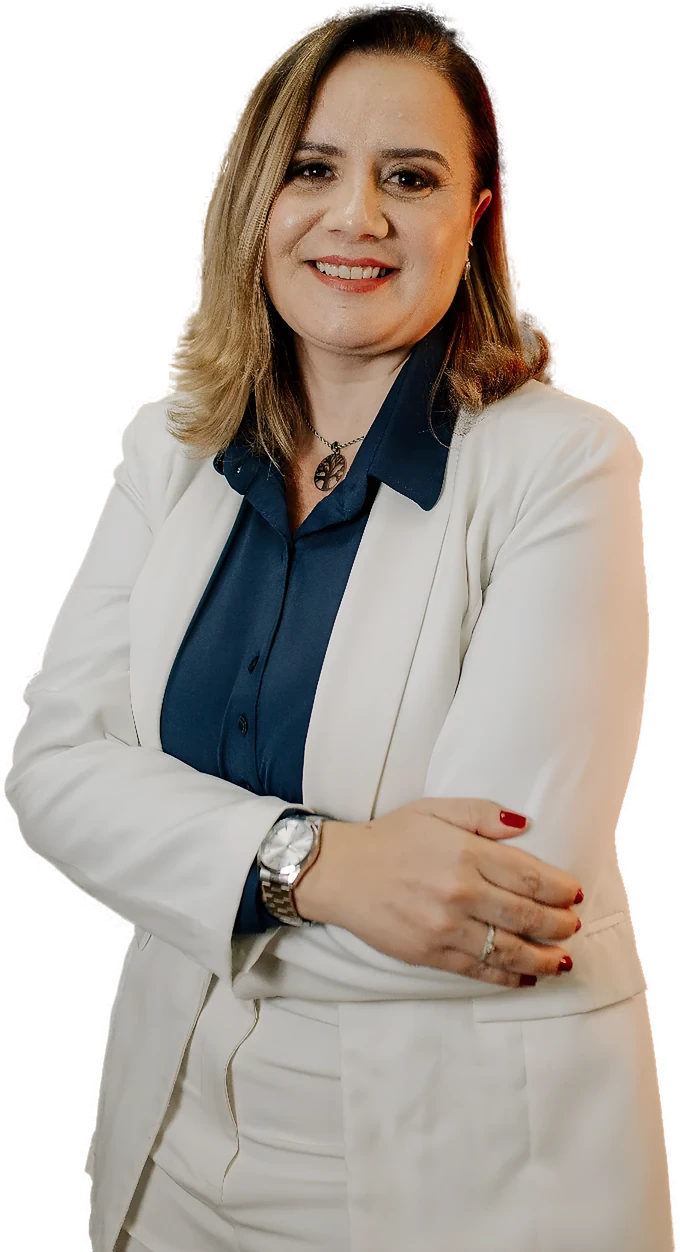
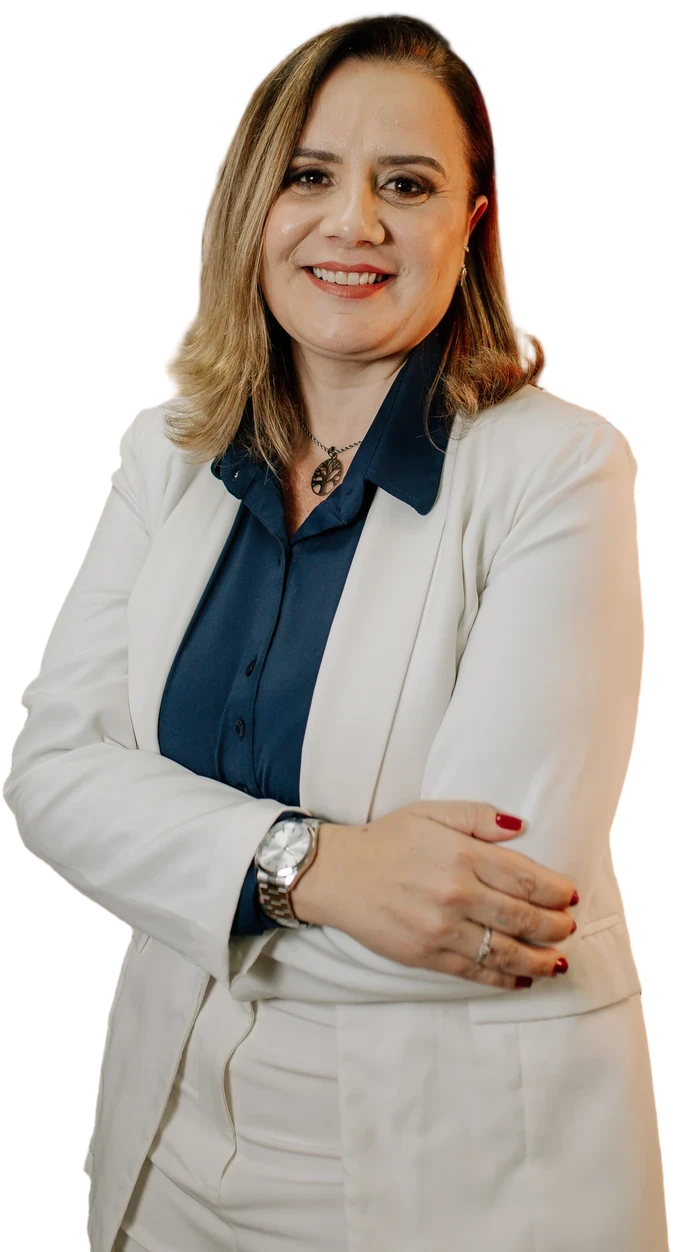
Foto da consultora no hero refeita a partir do original do ensaio
Recorta a foto original (Canon EOS RP, 3905x5857) com BiRefNet, no mesmo
enquadramento da anterior, e re-estima a cor do contorno para tirar o
halo da parede. Gera consultora-1.webp (673x1252) e consultora-1-2x.webp
(1347x2504), no lugar da versão ampliada por IA.

Claude-Session: https://claude.ai/code/session_013U9f5Zx2QdcPM43wx7EuyB

diff --git a/index.html b/index.html
@@ -84,7 +84,7 @@
           <img class="hero__mark" src="assets/img/brand/icon-gold-mono.svg" alt="" aria-hidden="true">
           <div class="arch" aria-hidden="true"></div>
           <svg class="arch-line" viewBox="0 0 480 640" preserveAspectRatio="none" aria-hidden="true"><path d="M 1 640 L 1 240 A 239 239 0 0 1 479 240 L 479 640" fill="none" stroke="#D9BC7E" stroke-width="1.5"></path></svg>
-          <img class="hero__photo" src="assets/img/hero/consultora-1.webp" srcset="assets/img/hero/consultora-1.webp 680w, assets/img/hero/consultora-1-2x.webp 1360w" sizes="(max-width: 900px) 293px, 380px" alt="Consultora da Portella Corretora de Seguros" width="680" height="1252" fetchpriority="high">
+          <img class="hero__photo" src="assets/img/hero/consultora-1.webp" srcset="assets/img/hero/consultora-1.webp 673w, assets/img/hero/consultora-1-2x.webp 1347w" sizes="(max-width: 900px) 291px, 377px" alt="Consultora da Portella Corretora de Seguros" width="673" height="1252" fetchpriority="high">
           <div class="crest"><img src="assets/img/brand/icon-gold-ivory.svg" alt=""></div>
           <a class="hero__tag fu d4" href="https://wa.me/5511947841580?text=Ol%C3%A1%2C%20Portella!%20Vim%20pelo%20site." target="_blank" rel="noopener"><small>WhatsApp</small><span>(11) 94784-1580</span></a>
         </div>
